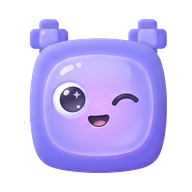
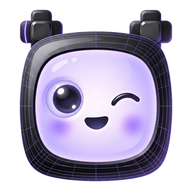
Switch to the new dark mascot with hands, halo and antenna line work
Updates the hero and wordmark-band mascot, favicons, app icons and share image.

Claude-Session: https://claude.ai/code/session_018aKBzehgkAT1tgz3Pm1FJ6

diff --git a/index.html b/index.html
@@ -166,7 +166,7 @@ section.blk .partner p{max-width:none}
    <p class="fine">We will only use your email to tell you when the agent launches and when we ship updates. No spam, and you can unsubscribe at any time.</p>
   </form>
   </div>
-  <img class="mascot" src="assets/twibbit-cutout.png" alt="Twibbit, a friendly purple pixel mascot giving a wink" width="260" height="252">
+  <img class="mascot" src="assets/twibbit-cutout.png" alt="Twibbit, a friendly dark robot mascot giving a wink and a thumbs up" width="260" height="245">
  </header>
 
  <section class="blk">
@@ -263,7 +263,7 @@ section.blk .partner p{max-width:none}
    <p class="fine">No spam. Unsubscribe at any time.</p>
   </form>
  </div>
- <div class="brand" aria-label="Twibbit"><p class="word" aria-hidden="true">Twibbit</p><img class="cut" src="assets/twibbit-cutout.png" alt="Twibbit, a friendly purple pixel mascot giving a wink" width="285" height="295"></div>
+ <div class="brand" aria-label="Twibbit"><p class="word" aria-hidden="true">Twibbit</p><img class="cut" src="assets/twibbit-cutout.png" alt="Twibbit, a friendly dark robot mascot giving a wink and a thumbs up" width="285" height="269"></div>
 
  <footer>Built by Mogashni, UX designer and researcher, working in public. <a href="research.html">Read the research report</a>.</footer>
 </div>
